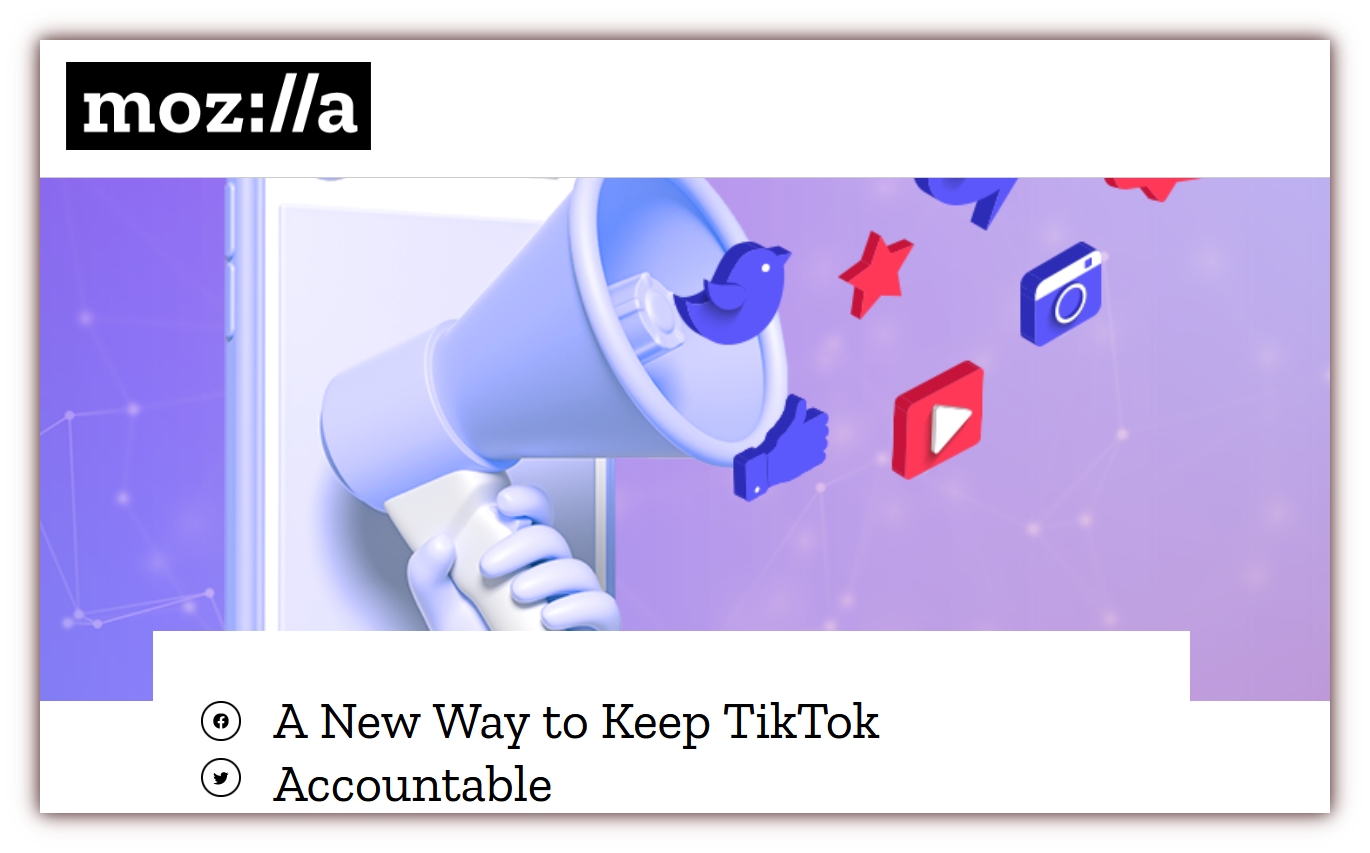
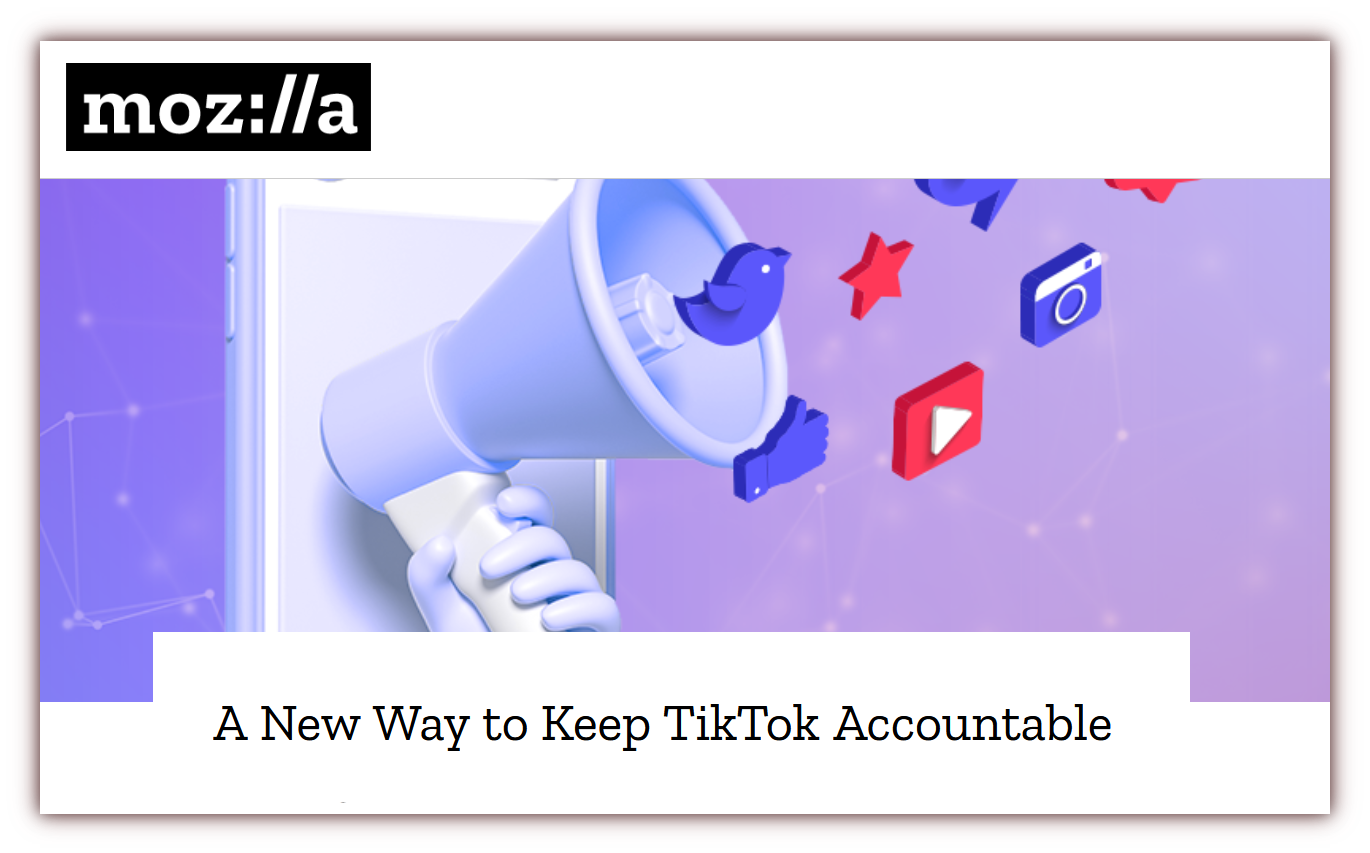
fixed style and image

diff --git a/static/css/tiktok.css b/static/css/tiktok.css
@@ -26,7 +26,7 @@ a:hover.extension-button {
 
 .tiktok {
     /* remind self: produced with https://glitchart.io/ */
-    background-image: url("/images/glitch-art-bg-2.jpg");
+    /* background-image: url("/images/glitch-art-bg-2.jpg"); */
 }
 
 .core {

diff --git a/content/_index.html b/content/_index.html
@@ -46,7 +46,7 @@ extraCSS: "/css/tiktok.css"
 
 </div>
 
-<div class="container cta-container">
+<div class="cta-container">
 
   <div class="col-md-1"></div>
 
